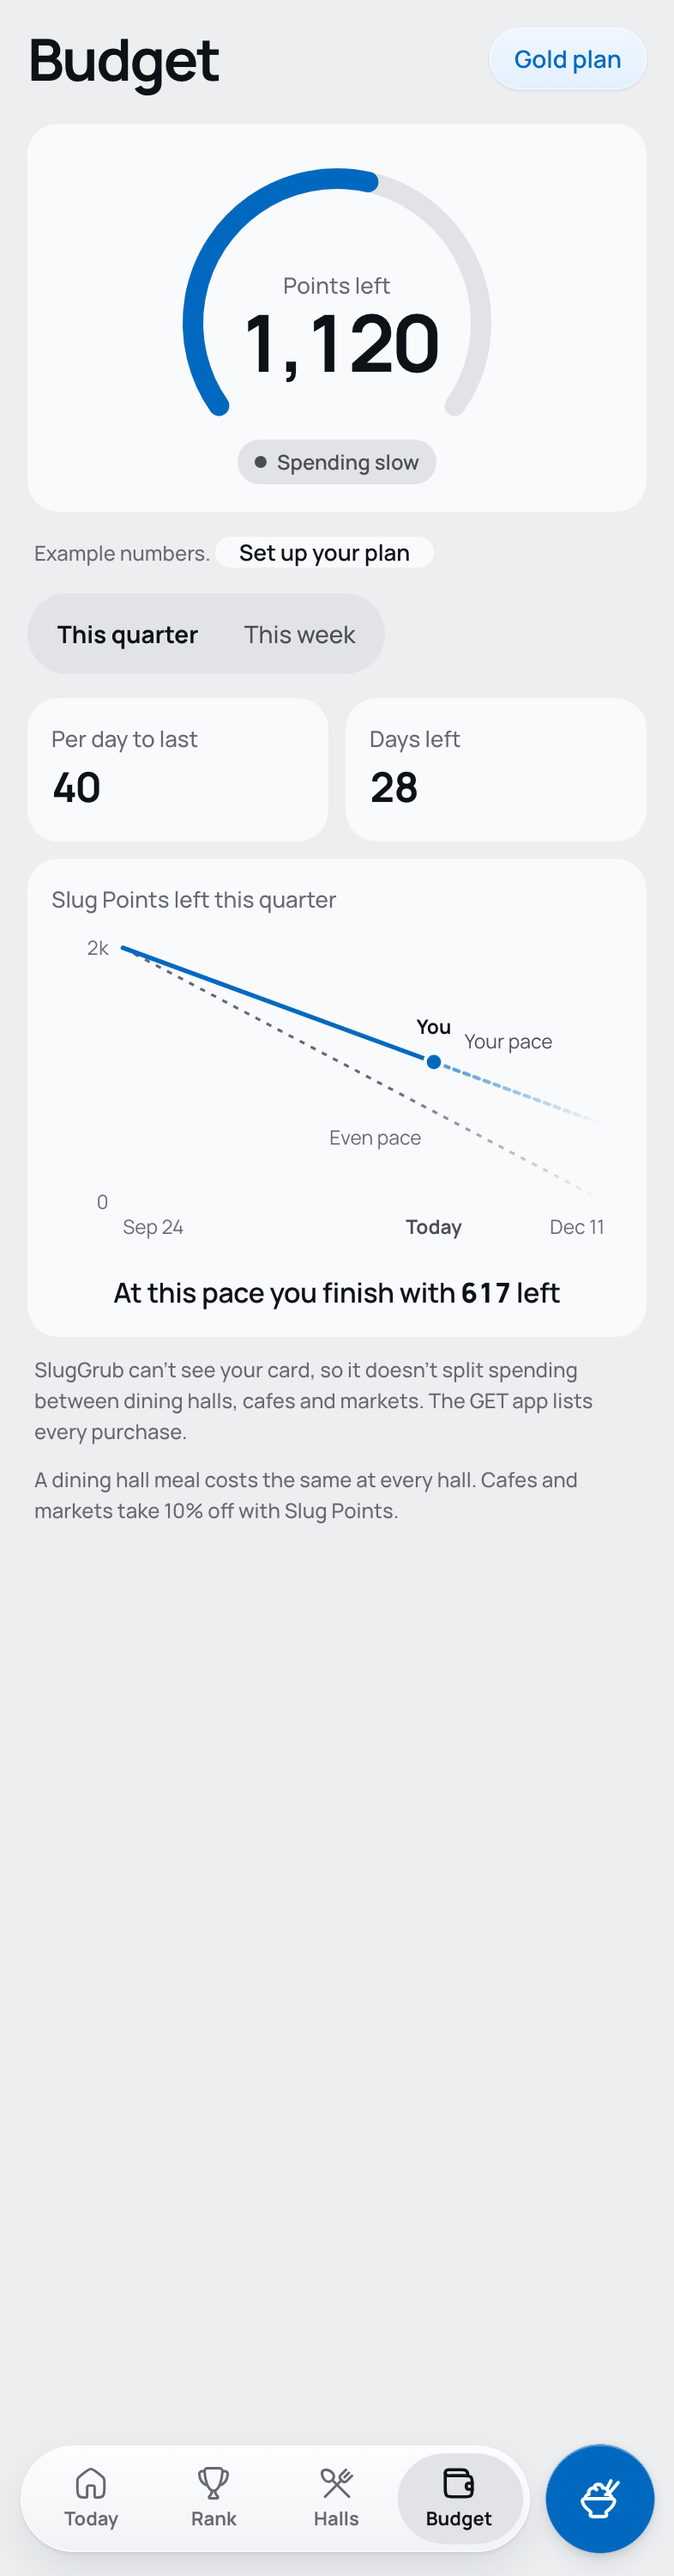
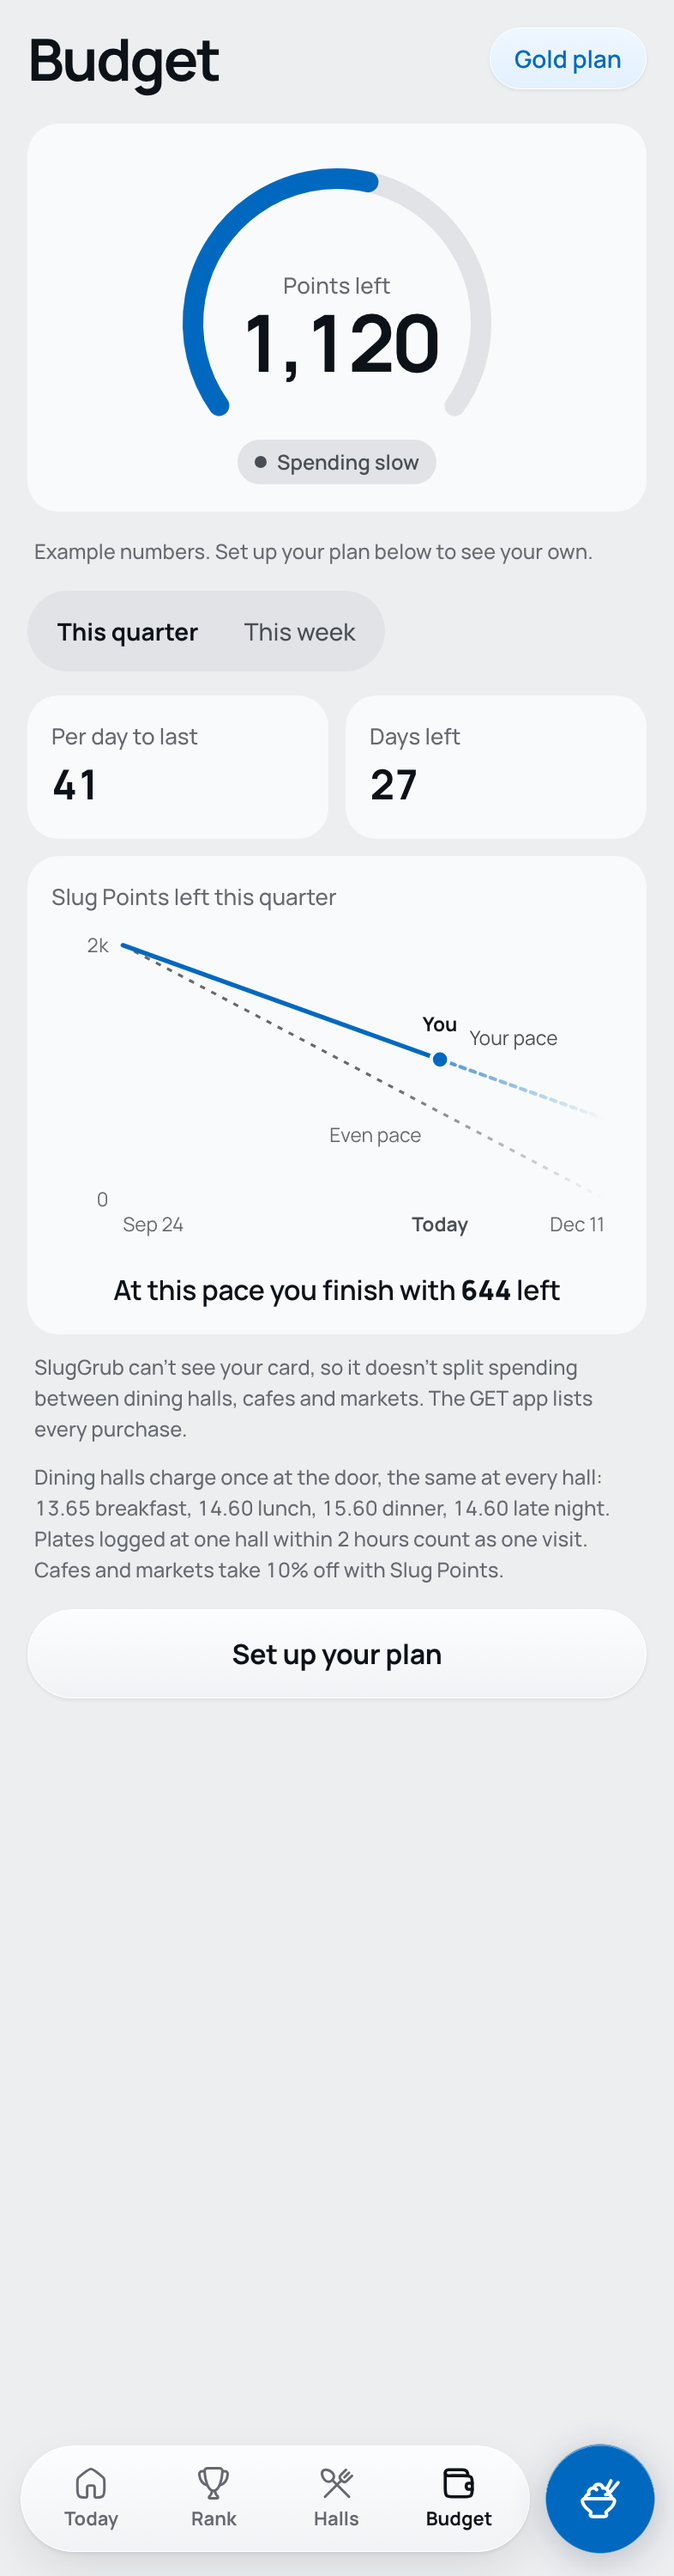
README for the project page: live link, screenshots, what it does, how it works; refreshed review shots
Claude-Session: https://claude.ai/code/session_01SmygMgq6KVzRq6FhAY6wNS

diff --git a/README.md b/README.md
@@ -1,42 +1,62 @@
 # SlugGrub
 
-UCSC dining, ranked by students. See what's good at each dining hall right now, rank dishes against each other, log your plate with a photo, and keep your Slug Points on pace. Built at DevFest 2026.
+**UCSC dining, ranked by students.** Rank dining hall food with this-or-that votes, track calories and protein by snapping your tray, and see if your Slug Points will last the quarter. Built at DevFest 2026.
 
-## Stack
+**Try it: [sluggrub.vercel.app](https://sluggrub.vercel.app)** (made for phones; on a laptop it shows in a phone-width column)
 
-- Next.js 16 (App Router, TypeScript, `src/`), mobile-first web app
-- Tailwind CSS 4, Framer Motion
-- Gemini API (`@google/genai`), called from server routes only
-- Firebase (Firestore for votes and rankings, Google sign-in)
-- Deploy on Vercel
+<p>
+  <img src="docs/screens/today.png" width="180" alt="Today">
+  <img src="docs/screens/rank.png" width="180" alt="Rank">
+  <img src="docs/screens/halls.png" width="180" alt="Halls">
+  <img src="docs/screens/log.png" width="180" alt="Log a plate">
+  <img src="docs/screens/budget.png" width="180" alt="Budget">
+</p>
 
-## Getting started
+## What it does
+
+- **Rank.** Pick between two dishes on today's menu. The picks build a live leaderboard for every dining hall and a weekly rivalry between the ten colleges.
+- **Live vote.** A projector shows two dishes and a QR code (`/vote/screen`); anyone can scan it and vote from their phone, and the tally updates as they do.
+- **Log a plate.** Take a photo of your tray. Gemini matches it to that hall's real menu and estimates the servings, so calories and protein come from UCSC's own nutrition labels. An optional goal from onboarding fills a ring on Today. Calories stay on your phone.
+- **Slug Points.** Logging charges one dining hall entry per visit at UCSC's door prices (plates at the same hall within two hours are one visit). Budget shows your pace and when you'd run out.
+- **Ask SlugGrub.** Ask for something like "high protein under 700 cal" and it picks from what the halls are serving right now, streaming each step as it works.
+- **Halls.** Every hall's menu, hours and open status for today, plus the cafes and markets, all live from UCSC Dining.
+- **Dining services view.** The same votes show which dishes students love and which they pass on (`/dining-services`).
+
+## How it works
+
+- **Next.js 16 and React 19** web app on **Vercel**, so anyone can open it from a link or a QR code with nothing to install.
+- **Live menus.** The server reads menus, hours and nutrition labels from [nutrition.sa.ucsc.edu](https://nutrition.sa.ucsc.edu/) and [dining.ucsc.edu](https://dining.ucsc.edu/), and keeps saved copies in `data/` as a fallback.
+- **Gemini** (`@google/genai`, server routes only) reads tray photos (`/api/log`) and answers Ask SlugGrub (`/api/ask`). Every dish it returns is checked against the real menu before it shows.
+- **Dish photos.** The menu site has no pictures, so every dish photo in `public/food/gen/` was made with Gemini's image model (`scripts/food-images.mjs`, prompt in `docs/food-image-prompt.md`).
+- **Firebase.** Firestore holds the votes, rankings and live round, with anonymous sign-in and security rules that allow one vote per phone per matchup (`firestore.rules`).
+- **Design system.** One written system for color, type, spacing and motion in `docs/DESIGN.md`, with every choice logged in `docs/DECISIONS.md`.
+
+## Run it locally
 
 ```bash
 npm install
-cp .env.example .env.local   # fill in the keys
+cp .env.example .env.local   # add a Gemini API key and the Firebase web config
 npm run dev                  # http://localhost:3000
 ```
 
-Open it on your phone on the same wifi at `http://<your-laptop-ip>:3000` to test the mobile layout and camera.
+For phone testing, use the production build: `npm run build`, then `npx next start -p 3001 -H 0.0.0.0`, and open `http://<your-laptop-ip>:3001` on the same wifi.
 
-## The plan
-
-Everything we're building, who owns what, and what's done: **[PLAN.md](PLAN.md)**. Rules for AI assistants (Claude Code and Antigravity): [AGENTS.md](AGENTS.md).
-
-## How we work
-
-New to GitHub or pull requests? **[docs/TEAM-GUIDE.md](docs/TEAM-GUIDE.md)** walks through setup, the branch and pull request loop, our rules, and fixes for common problems.
-
-## Structure
+## Project layout
 
 ```
-src/app/            pages: / (Today), /rank, /log, /halls, /budget, /onboarding, /vote, /dining-services
-src/app/api/        server routes (Gemini runs here only): /api/log, /api/ask
-src/components/ui/  shared UI pieces (Arshawn)
-src/lib/            types, halls, and each owner's data functions (menus, rankings, budget)
-scripts/            menu fetcher (Ethan)
-data/mock/          fake data to build against
-data/menus/         saved real menus (generated)
-docs/               team guide
+src/app/            pages: / (Today), /rank, /halls, /budget, /log, /ask, /onboarding, /settings, /vote, /dining-services
+src/app/api/        server routes; Gemini runs here only (/api/log, /api/ask)
+src/components/     screens and shared UI
+src/lib/            menus, hours, rankings, budget math, profile
+data/               saved menus and nutrition labels
+scripts/            menu fetchers and the dish photo generator
+docs/               design system, decisions, demo run sheet
 ```
+
+## Team
+
+Arshawn (design, Today, photo log), Karen (rankings, Firebase, live vote, dining services view) and Ethan (menus, Halls, Budget, onboarding, Ask SlugGrub).
+
+## Earlier work
+
+The menu-matched photo logging idea comes from Trackify, a calorie tracking app Arshawn made before the event. The Ask screen's step-by-step status line and text pacing come from Chalk, another app he made. Everything else was built at DevFest 2026.

diff --git a/AGENTS.md b/AGENTS.md
@@ -29,7 +29,7 @@ Three people (Arshawn, Karen, Ethan) and their AI assistants work in this repo a
 - Work on a branch named after the feature (`today`, `photo-log`, `rank`, `menus`), never directly on `main`.
 - `git pull --rebase origin main` before starting and before pushing.
 - Small pull requests, merged often (every hour or two).
-- After every step that works, offer to commit it with a short message. When a piece of a feature works, offer to push and open a pull request. Teammates are new to git: explain what each git step does in one plain sentence as you do it.
+- After every step that works, offer to commit it with a short message. When a piece of a feature works, offer to push and open a pull request. Explain what each git step does in one plain sentence as you do it.
 - Never commit `.env.local` or any key.
 - Tell your person before adding a package; they should tell the group chat.
 
@@ -42,7 +42,7 @@ Three people (Arshawn, Karen, Ethan) and their AI assistants work in this repo a
 - Use the types in `src/lib/types.ts`. Use fake data from `data/mock/` until the real data function is ready.
 - Calories are private: never show one user's calories to another user.
 - Motion and blur follow docs/DESIGN.md: one spring (motion.spring), one goo (motion.goo), one state change (motion.state_change). Blur is a MUST-be-cheap rule (effects.blur_budget): never add a blur layer beyond it.
-- Beginner how-to for the team (git, branches, pull requests): `docs/TEAM-GUIDE.md`. If your person seems new to git, walk them through it step by step and explain each command before running it.
+- How-to for the team (git, branches, pull requests): `docs/TEAM-GUIDE.md`. Walk your person through git steps and explain each command before running it.
 - Never push to `main`, never force push (`--force`), and never run `git reset --hard` without your person saying yes.
 
 ## Build conventions (learned 2026-11-14)

diff --git a/docs/TEAM-GUIDE.md b/docs/TEAM-GUIDE.md
@@ -105,7 +105,7 @@ Open the agent chat inside the SlugGrub folder, make sure the model is set (Part
 
 ### Karen's setup prompt
 ```
-I'm Karen, on a 3-person hackathon team building SlugGrub. I'm new to GitHub, pull requests and coding agents, so explain each step in plain words before you do it, and tell me exactly when I need to do something myself.
+I'm Karen, on a 3-person hackathon team building SlugGrub. Explain each step in plain words before you do it, and tell me exactly when I need to do something myself.
 
 Set me up from start to finish:
 
@@ -125,7 +125,7 @@ When everything above is done, end with exactly: "I understand the plan and my r
 
 ### Ethan's setup prompt
 ```
-I'm Ethan, on a 3-person hackathon team building SlugGrub. I'm new to GitHub, pull requests and coding agents, so explain each step in plain words before you do it, and tell me exactly when I need to do something myself.
+I'm Ethan, on a 3-person hackathon team building SlugGrub. Explain each step in plain words before you do it, and tell me exactly when I need to do something myself.
 
 Set me up from start to finish:
 

diff --git a/PLAN.md b/PLAN.md
@@ -1,6 +1,6 @@
 # SlugGrub plan
 
-The one shared plan for the team and for every AI working in this repo. New to GitHub? Read [docs/TEAM-GUIDE.md](docs/TEAM-GUIDE.md) first. **If it is not in this file, it is not decided.** Change it in a commit like any code: tick your boxes, add decisions, move things around. Keep the Google Doc for brainstorming only; this file wins if they disagree.
+The one shared plan for the team and for every AI working in this repo. Team how-to: [docs/TEAM-GUIDE.md](docs/TEAM-GUIDE.md). **If it is not in this file, it is not decided.** Change it in a commit like any code: tick your boxes, add decisions, move things around. Keep the Google Doc for brainstorming only; this file wins if they disagree.
 
 Last updated: 2026-11-14
 
